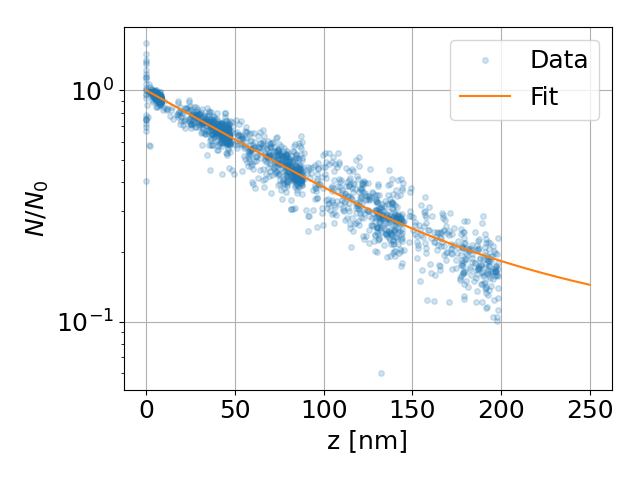
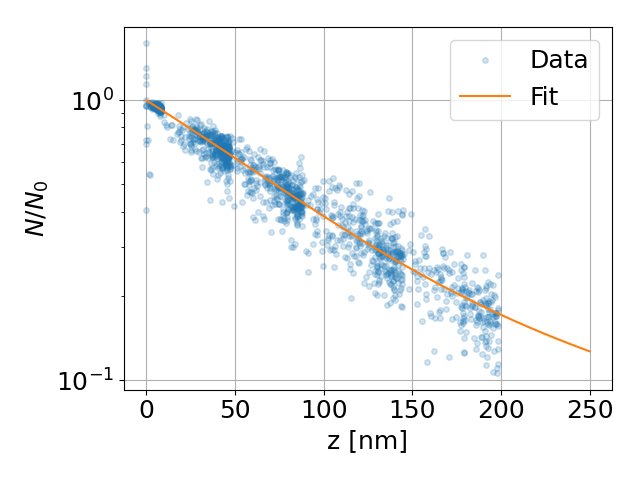
add spatial maps for parameters

diff --git a/src/picasimpler/main/presenter.py b/src/picasimpler/main/presenter.py
@@ -13,7 +13,7 @@ from matplotlib import rcParams
 from picasimpler.main.view import View
 from picasimpler.main.analysis import AnalysisWorker
 from picasimpler.helpers.status import AnalysisStatus, UIColor, MessageType
-from picasimpler.helpers.utils import safe_float_to0, safe_float_tonone
+from picasimpler.helpers.utils import gauss, safe_float_to0, safe_float_tonone
 from picasimpler.config.config_var import (
     SPAT_TOL_NM_DEF,
     SPAT_TOL_NM_MIN,
@@ -858,7 +858,7 @@ class Presenter(QObject):
         self._print_to_ui(MessageType.SIMPLE, f"&alpha;<sub>EXC</sub> = {self._analysis_worker.fit.alpha_exc:.3g} &plusmn; {self._analysis_worker.fit.alpha_exc_err:.3g}")
         self._print_to_ui(MessageType.SIMPLE, f"d<sub>EXC</sub> = {self._analysis_worker.fit.d_exc:.4g} &plusmn; {self._analysis_worker.fit.d_exc_err:.4g} nm")
         self._print_to_ui(MessageType.SIMPLE, f"&theta;<sub>TIRF</sub> = {self._analysis_worker.fit.tirf_angle:.4g} &plusmn; {self._analysis_worker.fit.tirf_angle_err:.3g}°")
-        self._print_to_ui(MessageType.SIMPLE, f"&lt;N<sub>0</sub>&gt; = {self._analysis_worker.fit.N_0_avg:.6g} &plusmn; {self._analysis_worker.fit.N_0_std:.6g}")
+        self._print_to_ui(MessageType.SIMPLE, f"&lt;N<sub>0</sub>&gt; = {self._analysis_worker.fit.N_0_avg:.6g} &plusmn; {self._analysis_worker.fit.N_0_err:.6g}")
         if self._analysis_worker.params.should_do_res_analysis:
             self._print_to_ui(MessageType.INFO, "Cluster average sigmas:")
             for clust_idx in range(self._analysis_worker.params.n_clust_exp):
@@ -874,7 +874,7 @@ class Presenter(QObject):
             self._analysis_worker.fit.tirf_angle,
             self._analysis_worker.fit.tirf_angle_err,
             self._analysis_worker.fit.N_0_avg,
-            self._analysis_worker.fit.N_0_std
+            self._analysis_worker.fit.N_0_err
         )
         self.save_calib_plot(filename_base)
         if CALIB_MODE=='exp_appr':
@@ -925,11 +925,67 @@ class Presenter(QObject):
         plt.savefig(self.res_dir / Path(calib_plot_filename_base + "_calib_res_logscale.png"))
         
         plt.close()
-        plt.hist(self._analysis_worker.fit.alpha_arr, 20)
+        plt.plot(Z_SIM_FIT_ARR, self._analysis_worker.fit.coll_fl_interp(Z_SIM_FIT_ARR), color=UIColor.V.value, linewidth=3)
+        plt.ylabel(r"$CF$")
+        plt.xlabel("z [nm]")
+        plt.grid()
+        plt.tight_layout()
+        plt.ylim([0, 1])
+        plt.savefig(self.res_dir / Path(calib_plot_filename_base + "_CF.png"))
+        
+        n_bins_inplots = 20
+        
+        if self._analysis_worker.is_analysis_done_with_free_angle:
+            plt.close()
+            plt.hist(self._analysis_worker.fit.d_exc_arr, n_bins_inplots, color=UIColor.DG.value, alpha=0.5)
+            d_exc_plt_range = np.linspace(self._analysis_worker.fit.d_exc_arr.min(), self._analysis_worker.fit.d_exc_arr.max(), 1000)
+            d_exc_bin_width = (self._analysis_worker.fit.d_exc_arr.max() - self._analysis_worker.fit.d_exc_arr.min())/n_bins_inplots
+            plt.plot(d_exc_plt_range, gauss(d_exc_plt_range, len(self._analysis_worker.fit.d_exc_arr)*d_exc_bin_width, self._analysis_worker.fit.d_exc, self._analysis_worker.fit.d_exc_err), color="black", linewidth=3, linestyle="--")
+            plt.ylabel("Frequency")
+            plt.xlabel(r"$d_{TIRF}$")
+            plt.tight_layout()
+            plt.savefig(self.res_dir / Path(calib_plot_filename_base + "_d_exc_distr.png"))
+            
+            plt.close()
+            plt.scatter(self._analysis_worker.fit.mean_pos_arr[:, 0], self._analysis_worker.fit.mean_pos_arr[:, 1], c=self._analysis_worker.fit.d_exc_arr, cmap='rainbow', s=20)
+            d_exc_color_bar = plt.colorbar(label=r"$d_{EXC} [nm]", orientation="vertical")
+            d_exc_color_bar.solids.set(alpha=1)
+            plt.gca().set_aspect('equal'), plt.xlabel('x (nm)'), plt.ylabel('y (nm)'), plt.tight_layout()
+            plt.savefig(self.res_dir / Path(calib_plot_filename_base + "_d_exc_map.png"))
+            
+        plt.close()
+        plt.hist(self._analysis_worker.fit.alpha_arr, n_bins_inplots, color=UIColor.OG.value, alpha=0.5)
+        alpha_plt_range = np.linspace(self._analysis_worker.fit.alpha_arr.min(), self._analysis_worker.fit.alpha_arr.max(), 1000)
+        alpha_bin_width = (self._analysis_worker.fit.alpha_arr.max() - self._analysis_worker.fit.alpha_arr.min())/n_bins_inplots
+        plt.plot(alpha_plt_range, gauss(alpha_plt_range, len(self._analysis_worker.fit.alpha_arr)*alpha_bin_width, self._analysis_worker.fit.alpha_exc, self._analysis_worker.fit.alpha_exc_err), color="black", linewidth=3, linestyle="--")
         plt.ylabel("Frequency")
         plt.xlabel(r"$\alpha_{EXC}$")
         plt.tight_layout()
         plt.savefig(self.res_dir / Path(calib_plot_filename_base + "_alphaexc_distr.png"))
+        
+        plt.close()
+        plt.scatter(self._analysis_worker.fit.mean_pos_arr[:, 0], self._analysis_worker.fit.mean_pos_arr[:, 1], c=self._analysis_worker.fit.alpha_arr, cmap='rainbow', s=20)
+        alpha_exc_color_bar = plt.colorbar(label=r"$\alpha_{EXC}", orientation="vertical")
+        alpha_exc_color_bar.solids.set(alpha=1)
+        plt.gca().set_aspect('equal'), plt.xlabel('x (nm)'), plt.ylabel('y (nm)'), plt.tight_layout()
+        plt.savefig(self.res_dir / Path(calib_plot_filename_base + "_alpha_exc_map.png"))
+        
+        plt.close()
+        plt.hist(self._analysis_worker.fit.N_0_arr, n_bins_inplots, color=UIColor.LB.value, alpha=0.5)
+        N_0_plt_range = np.linspace(self._analysis_worker.fit.N_0_arr.min(), self._analysis_worker.fit.N_0_arr.max(), 1000)
+        N_0_bin_width = (self._analysis_worker.fit.N_0_arr.max() - self._analysis_worker.fit.N_0_arr.min())/n_bins_inplots
+        plt.plot(N_0_plt_range, gauss(N_0_plt_range, len(self._analysis_worker.fit.N_0_arr)*N_0_bin_width, self._analysis_worker.fit.N_0_avg, self._analysis_worker.fit.N_0_err), color="black", linewidth=3, linestyle="--")
+        plt.ylabel("Frequency")
+        plt.xlabel(r"$N_{0}$")
+        plt.tight_layout()
+        plt.savefig(self.res_dir / Path(calib_plot_filename_base + "_N_0_distr.png"))
+        
+        plt.close()
+        plt.scatter(self._analysis_worker.fit.mean_pos_arr[:, 0], self._analysis_worker.fit.mean_pos_arr[:, 1], c=self._analysis_worker.fit.N_0_arr, cmap='rainbow', s=20)
+        N_0_color_bar = plt.colorbar(label=r"$N_{0}", orientation="vertical")
+        N_0_color_bar.solids.set(alpha=1)
+        plt.gca().set_aspect('equal'), plt.xlabel('x (nm)'), plt.ylabel('y (nm)'), plt.tight_layout()
+        plt.savefig(self.res_dir / Path(calib_plot_filename_base + "_N_0_map.png"))
         
     def save_tirf_angle_plot(self, tirf_angle_plotname):
         """

diff --git a/src/picasimpler/main/analysis.py b/src/picasimpler/main/analysis.py
@@ -16,7 +16,7 @@ from sklearn.cluster import HDBSCAN
 from PyQt6.QtCore import QObject, pyqtSignal, pyqtSlot
     
 from picasimpler.helpers.status import AnalysisStatus, MessageType
-from picasimpler.helpers.utils import cleanup_z_score, calc_tirf_angle_werr, px_to_nm
+from picasimpler.helpers.utils import z_score_test, calc_tirf_angle_werr, px_to_nm
 from picasimpler.helpers.cf_calc import SimulQ
 from picasimpler.config.config_var import (
     MAX_FIRST_FRAME_PERC,
@@ -529,9 +529,17 @@ class SpatialFit(QObject):
             self.N_0_arr[orig_idx] = popt[1]
 
         self.N_renorm_arr = self.clust_means[:, :, 2]/self.N_0_arr[:, np.newaxis]
+        self.mean_pos_arr = np.mean(self.clust_means[:, :, :2], axis=1)
 
-        self.alpha_arr = cleanup_z_score(self.alpha_arr)
-        self.N_0_arr = cleanup_z_score(self.N_0_arr)
+        alpha_cleanup_idx = z_score_test(self.alpha_arr)
+        N_0_cleanup_idx = z_score_test(self.N_0_arr)
+        cleanup_idx = np.logical_and(alpha_cleanup_idx, N_0_cleanup_idx)
+        
+        self.alpha_arr = self.alpha_arr[cleanup_idx]
+        self.N_0_arr = self.N_0_arr[cleanup_idx]
+        self.N_renorm_arr = self.N_renorm_arr[cleanup_idx]
+        self.z_real = self.z_real[cleanup_idx]
+        self.mean_pos_arr = self.mean_pos_arr[cleanup_idx]
 
         self.alpha_exc, self.alpha_exc_err = norm.fit(self.alpha_arr)
         #self.alpha_exc = np.mean(self.alpha_arr)
@@ -542,7 +550,7 @@ class SpatialFit(QObject):
         self.tirf_angle = self.params.tirf_angle
         self.tirf_angle_err = 0
         
-        self.N_0_avg, self.N_0_std = norm.fit(self.N_0_arr)
+        self.N_0_avg, self.N_0_err = norm.fit(self.N_0_arr)
         #self.N_0_avg = np.mean(self.N_0_arr)
         #self.N_0_std = np.std(self.N_0_arr)
         # variables for plot
@@ -570,10 +578,19 @@ class SpatialFit(QObject):
             self.N_0_arr[orig_idx] = popt[2]
 
         self.N_renorm_arr = self.clust_means[:, :, 2]/self.N_0_arr[:, np.newaxis]
+        self.mean_pos_arr = np.mean(self.clust_means[:, :, :2], axis=1)
 
-        self.d_exc_arr = cleanup_z_score(self.d_exc_arr)
-        self.alpha_arr = cleanup_z_score(self.alpha_arr)
-        self.N_0_arr = cleanup_z_score(self.N_0_arr)
+        d_exc_cleanup_idx = z_score_test(self.d_exc_arr)
+        alpha_cleanup_idx = z_score_test(self.alpha_arr)
+        N_0_cleanup_idx = z_score_test(self.N_0_arr)
+        cleanup_idx = np.logical_and(d_exc_cleanup_idx, alpha_cleanup_idx, N_0_cleanup_idx)
+        
+        self.d_exc_arr = self.d_exc_arr[cleanup_idx]
+        self.alpha_arr = self.alpha_arr[cleanup_idx]
+        self.N_0_arr = self.N_0_arr[cleanup_idx]
+        self.N_renorm_arr = self.N_renorm_arr[cleanup_idx]
+        self.z_real = self.z_real[cleanup_idx]
+        self.mean_pos_arr = self.mean_pos_arr[cleanup_idx]
 
         self.d_exc, self.d_exc_err = norm.fit(self.d_exc_arr)
         #self.d_exc = np.mean(self.d_exc_arr)
@@ -582,9 +599,9 @@ class SpatialFit(QObject):
         #self.alpha_exc = np.mean(self.alpha_arr)
         #self.alpha_exc_err = np.std(self.alpha_arr)
 
-        self.tirf_angle, self.tirf_angle_err = calc_tirf_angle_werr(self.d_exc, self.d_exc_err)
+        self.tirf_angle, self.tirf_angle_err = calc_tirf_angle_werr(self.d_exc, self.d_exc_err, self.params.lambda_exc, self.params.n_i, self.params.n_s)
         
-        self.N_0_avg, self.N_0_std = norm.fit(self.N_0_arr)
+        self.N_0_avg, self.N_0_err = norm.fit(self.N_0_arr)
         #self.N_0_avg = np.mean(self.N_0_arr)
         #self.N_0_std = np.std(self.N_0_arr)
         # variables for plot
@@ -716,6 +733,7 @@ class AnalysisWorker(QObject):
         self.clust: Clusterization = Clusterization(self.clust_signals)
         self.fit: SpatialFit = SpatialFit(self.fit_signals)
         self.params = Params()
+        self.is_analysis_done_with_free_angle = False
 
     def share_params(self):
         """
@@ -1103,42 +1121,11 @@ class AnalysisWorker(QObject):
         if self.params.fix_angle_choice and self.params.tirf_angle is not None:
             self.fit.fit_no_appr_fix_angle_each_orig()
             self.fit.backcalc_glob_param()
+            self.is_analysis_done_with_free_angle = False
         else:
             self.fit.fit_no_appr_each_orig()
             self.fit.backcalc_glob_param()
-        '''
-        match CALIB_MODE:
-            case 'no_appr':
-                self.fit.fit_renorm_no_appr()
-                self.fit.fit_N0_no_appr()
-                self.fit.backcalc_glob_param()
-            case 'no_appr_fix_angle':
-                self.fit.fit_renorm_no_appr_fix_angle()
-                self.fit.fit_N0_no_appr()
-                self.fit.backcalc_glob_param()
-            case 'no_appr_fix_angle_each_orig':
-                self.fit.fit_no_appr_fix_angle_each_orig()
-                self.fit.backcalc_glob_param()
-            case 'no_appr_fix_angle_biexp':
-                self.fit.fit_renorm_no_appr_fix_angle_biexp()
-                self.fit.fit_N0_no_appr_biexp()
-                self.fit.backcalc_glob_param()   
-            case 'no_appr_fix_angle_biexp_each_orig':
-                self.fit.fit_no_appr_fix_angle_biexp_each_orig()
-                self.fit.backcalc_glob_param()  
-            case 'no_appr_spacer':
-                self.fit.fit_renorm_no_appr_spacer()
-                self.fit.fit_N0_no_appr()
-                self.fit.backcalc_glob_param()
-            case 'no_appr_fix_alpha':
-                self.fit.fit_renorm_no_appr_fix_alpha()
-                self.fit.fit_N0_no_appr()
-                self.fit.backcalc_glob_param()
-            case 'exp_appr':
-                self.fit.fit_renorm_exp_appr()
-                self.fit.fit_N0_exp_appr()
-                self.fit.backcalc_tirf_angle()
-    '''
+            self.is_analysis_done_with_free_angle = True
         if should_do_res_analysis and (clust_locs is not None) and (clust_labels is not None):
             self.fit.backcalc_z()
             self.fit.calc_spat_sigma_gmm()

diff --git a/src/picasimpler/helpers/utils.py b/src/picasimpler/helpers/utils.py
@@ -4,13 +4,13 @@ from enum import auto
 def gauss(xx, ampl, mu, sigma):
     return ampl*np.exp(-(xx - mu)**2/(2*sigma**2))/np.sqrt(2*np.pi)/sigma
 
-def cleanup_z_score(data):
+def z_score_test(data):
     median = np.median(data)
     mad = np.median(np.abs(data - median))
     # modified z-score, robust to outliers (using MAD instead of std)
     mod_z = 0.6745 * (data - median) / mad
-    clean_data = data[np.abs(mod_z) < 3.5]  # common threshold
-    return clean_data
+    clean_data_idx = np.asarray([np.abs(mod_z) < 3.5])[0]  # common threshold
+    return clean_data_idx
 
 def calc_tirf_angle_werr(d_exc, d_exc_err, lambda_exc, n_i, n_s):
     tirf_angle_lambda_factor = lambda_exc / (4*np.pi)
@@ -20,6 +20,13 @@ def calc_tirf_angle_werr(d_exc, d_exc_err, lambda_exc, n_i, n_s):
     tirf_angle = np.arcsin(tirf_angle_sin)*180/np.pi
     tirf_angle_err = np.abs(tirf_angle_deriv) * d_exc_err
     return tirf_angle, tirf_angle_err
+
+def safe_calc_tirf_angle(d_exc, lambda_exc, n_i, n_s):
+    tirf_angle_lambda_factor = lambda_exc / (4*np.pi)
+    tirf_angle_sqrt_factor = np.sqrt(((tirf_angle_lambda_factor / d_exc)**2 + n_s**2))
+    tirf_angle_sin = tirf_angle_sqrt_factor / n_i
+    tirf_angle = np.arcsin(np.min((1, tirf_angle_sin)))*180/np.pi
+    return tirf_angle
 
 def px_to_nm(arr_toconv, px_size_nm):
     """
